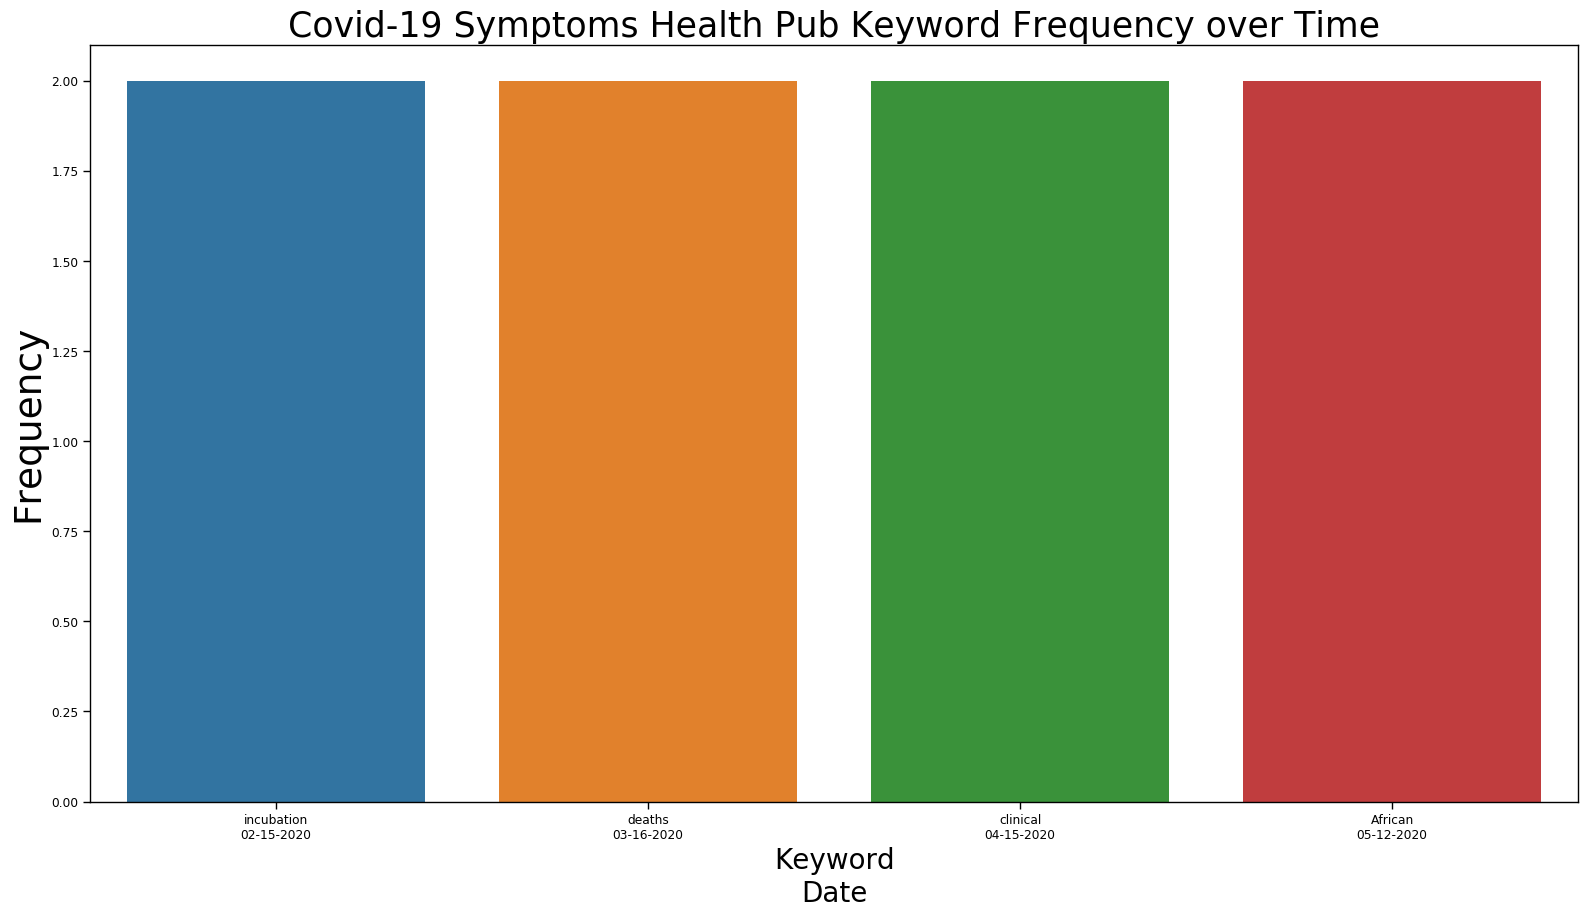
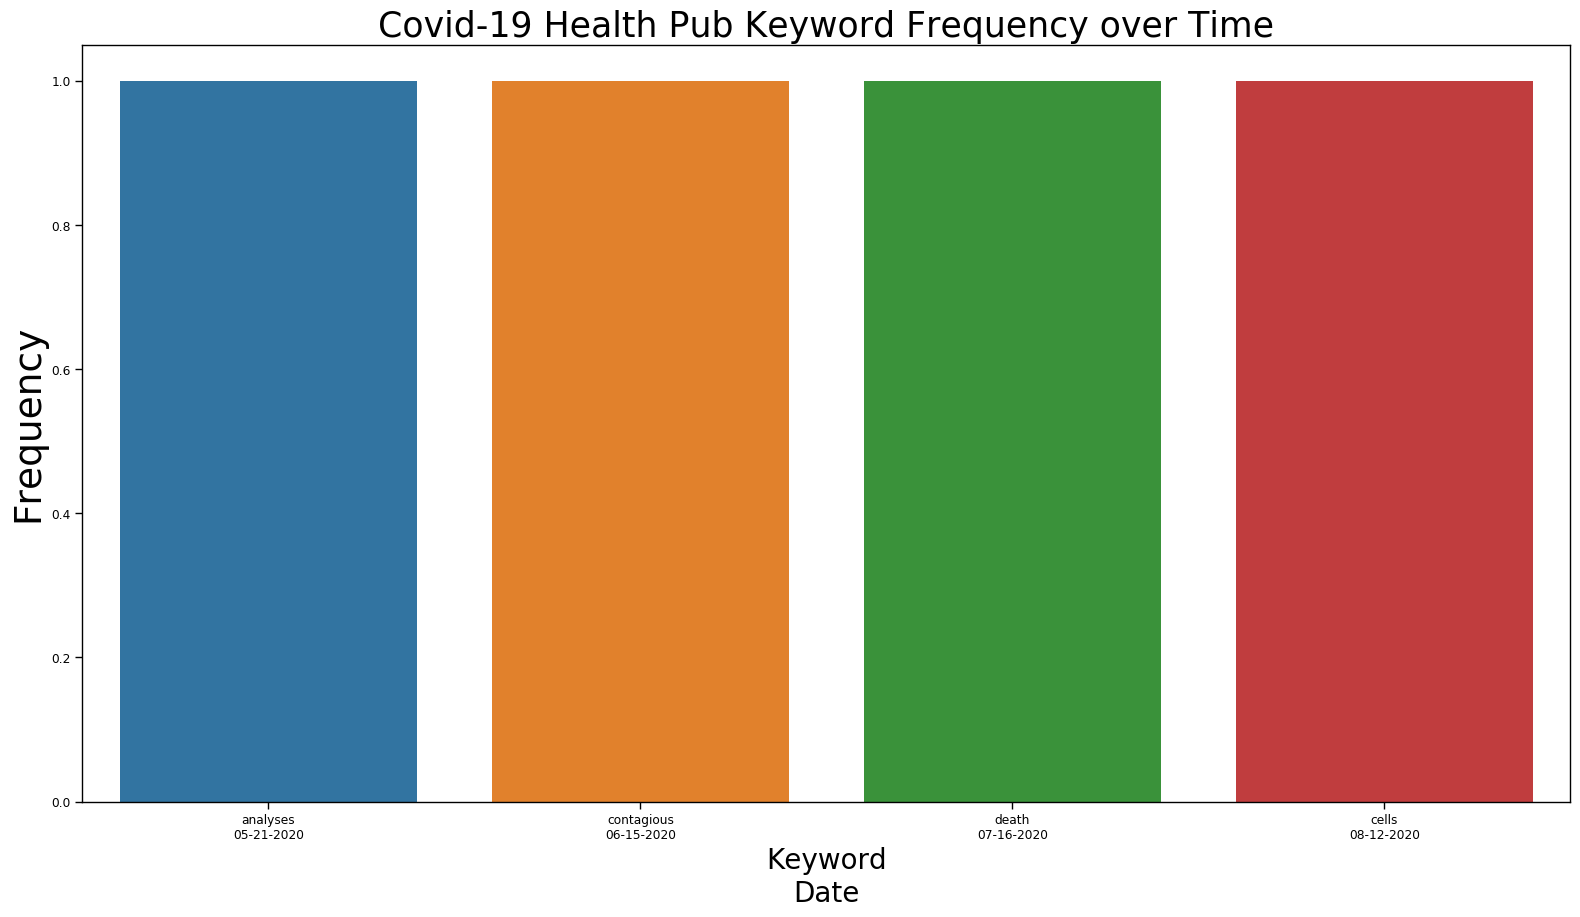
Progress on parsing nested dictionaries of NLP output.

diff --git a/COVID-19_NLP/modules/backend processing/generate_nlp_output.py b/COVID-19_NLP/modules/backend processing/generate_nlp_output.py
@@ -1,4 +1,4 @@
-import csv
+import process_nlp_output as pnlp
 from ibm_watson import NaturalLanguageUnderstandingV1
 from ibm_cloud_sdk_core.authenticators import IAMAuthenticator
 from ibm_watson.natural_language_understanding_v1 import Features, KeywordsOptions, SentimentOptions
@@ -19,44 +19,70 @@ def generate_nlp_output(nlp_input, type_of_query, user_api_key, user_service_url
 
 def generate_nlp_output_from_text_dict(text_dict, api_key, service_url):
     nlu = nlu_authenticator(api_key, service_url)
-    file_list = []
+    #file_list = []
+    nlp_dict = {}
     for date, text in text_dict.items():
         nlp_list = []
         for tweet in text:
             nlp_list.append(nlu.analyze(text=tweet,features=Features(keywords=KeywordsOptions\
             (sentiment=True,emotion=True,limit=2),sentiment=SentimentOptions()),language='en').get_result())
         file_name = str('nlp_results_' + date.replace('/', '-') + '.csv')
-        file_list.append(file_name)
-        write_text_results_to_file(file_name, nlp_list)
-    return file_list
+        #file_list.append(file_name)
+        nlp_dict[date] = nlp_list
+        write_results_to_keyword_file('nlp_tweet_keywords.csv', nlp_list)
+        write_results_to_sentiment_file('nlp_tweet_sentiments.csv', nlp_dict)
+    return file_name
 
 def generate_nlp_output_from_url_dict(url_dictionary, api_key, service_url):
     nlu = nlu_authenticator(api_key, service_url)
-    file_list = []
+   # file_list = []
+    nlp_dict = {}
     for date, row in url_dictionary.items():
         nlp_list = []
         for url in row:
             nlp_list.append(nlu.analyze(url=url,features=Features(keywords=KeywordsOptions\
             (sentiment=True,emotion=True,limit=2),sentiment=SentimentOptions())).get_result())
         file_name = str('nlp_results_' + date.replace('/', '-') + '.csv')
-        file_list.append(file_name)
-        write_url_results_to_file(file_name, nlp_list)
-    return file_list
+       # file_list.append(file_name)
+        nlp_dict[date] = nlp_list
+    write_results_to_keyword_file('health_pub_nlp_keywords.csv', nlp_dict)
+    write_results_to_sentiment_file('health_pub_nlp_sentiments.csv', nlp_dict)
+    return file_name
 
-def write_text_results_to_file(file_name, pub_nlp_list):
+def write_results_to_keyword_file(file_name, keyword_dict):
+    date_keyword_dict = {}
     with open(file_name, mode='w', newline='', encoding='utf-8') as csv_file:
-        fieldnames = ['a','b','c','Sentiment','d','e','Keyword1','f','g',\
-                        'h','i','j','k','l','m','n','Keyword2','o']
-        writer = csv.DictWriter(csv_file, fieldnames)
-        writer.writeheader()
-        for item in pub_nlp_list:
-            csv_file.write("%s\n" % item)
+        for date, nlp_list in keyword_dict.items():
+            #print('keyword nlp_list:')
+            #print(nlp_list)
+            keyword_list = []
+            for keyword in nlp_list[0]['keywords']:
+                    #print(keyword['text'])
+                   # print('text in keyword[0][\'text\']')
+                    #print(text)
+                    keyword_list.append(keyword['text'])#['text'])
+            date_keyword_dict[date] = keyword_list
+        #print(pub_nlp_list[0]['keywords'][0]['text'])
+        pnlp.write_to_file(date_keyword_dict, file_name, ['Date', 'Keywords'])
 
-def write_url_results_to_file(file_name, pub_nlp_list):
+def write_results_to_sentiment_file(file_name, sentiment_dict):
+    date_sentiment_dict = {}
     with open(file_name, mode='w', newline='', encoding='utf-8') as csv_file:
-        fieldnames = ['a','b','c','Sentiment','d','e','f','Keyword1','g',\
-                        'h','i','j','k','l','m','n','o','Keyword2']
-        writer = csv.DictWriter(csv_file, fieldnames)
-        writer.writeheader()
-        for item in pub_nlp_list:
-            csv_file.write("%s\n" % item)
+        for date, nlp_list in sentiment_dict.items():
+            print('sentiment nlp_list:')
+            print(nlp_list)
+            sentiment_list = []
+            for sentiment in nlp_list:
+                print('sentiment in nlp_list:')
+                print(sentiment)
+                print('score in sentiment in nlp_list:')
+                print(sentiment['sentiment']['document']['score'])
+                #for label in sentiment['sentiment']['document']:
+                #    for score in label:
+                 #       print('label[0] in sentiment score:')
+                 #       print(score)
+                    #print(sentiment['score'])
+                sentiment_list.append(sentiment['sentiment']['document']['score'])#['score'])
+            date_sentiment_dict[date] = sentiment_list
+        #print(pub_nlp_list[0]['sentiment'][0]['text'])
+        pnlp.write_to_file(date_sentiment_dict, file_name, ['Date', 'Sentiment'])

diff --git a/COVID-19_NLP/modules/front_end_gui_script.py b/COVID-19_NLP/modules/front_end_gui_script.py
@@ -11,7 +11,7 @@ import tkinter as tk
 fields = 'Search Term', 'Start Date (mm-dd-yyyy)', 'End Date  (mm-dd-yyyy)',\
 'Number of tweets per month', 'Number of health pubs per month', 'IBM Watson NLU API Key',\
 'IBM Watson Service URL'
-text_list = 'COVID-19', "01-12-2020", '05-24-2021', 5, 5, '4Ac-fI2WAly37w3y9EFyLbadnail9QU-hUk9shNck1eE',\
+text_list = 'COVID-19', "05-12-2020", '08-24-2020', 1, 1, '4Ac-fI2WAly37w3y9EFyLbadnail9QU-hUk9shNck1eE',\
 'https://api.us-south.natural-language-understanding.watson.cloud.ibm.com/instances/347c5943-5b2f-435f-a501-4807978a45f6'
 
 def fetch(entries):
